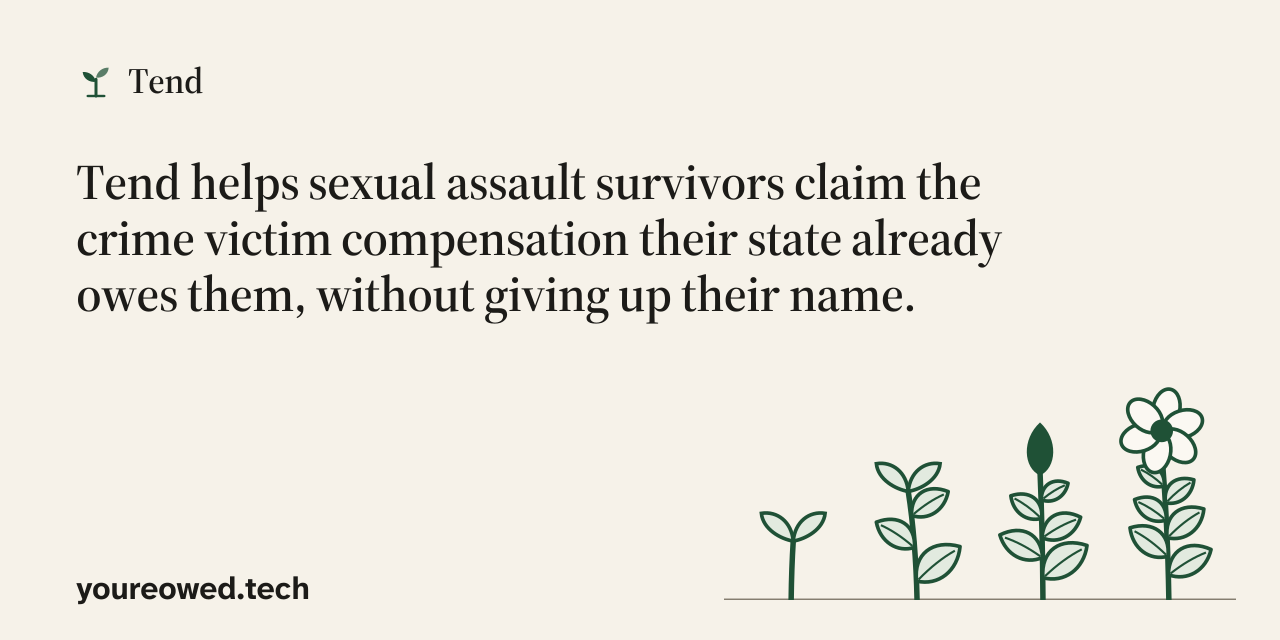
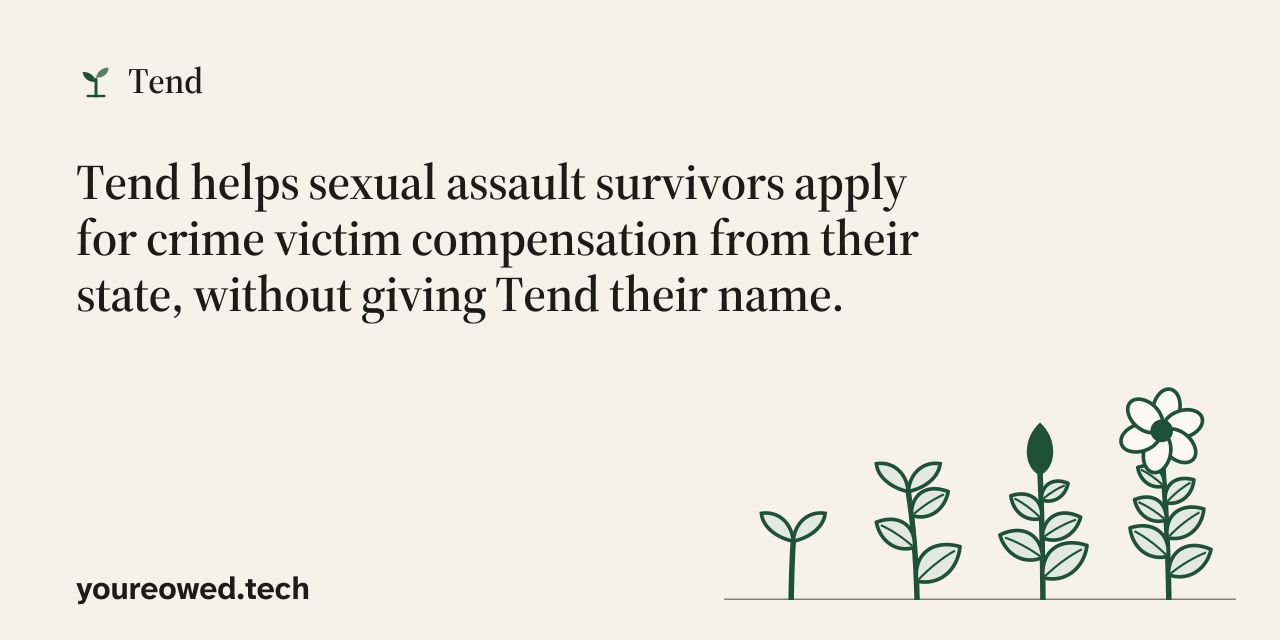
web: the home page and its link card say survivors apply, without giving Tend their name
"Claim the crime victim compensation their state already owes them" said more than
the law does: nothing is owed until the program approves a claim, every page footer
says the program decides, and the state's own form asks for the survivor's name.
What is true is that Tend never asks for it.

The home intro, How it works' lead, the home link card (og:description, /card.png)
and GitHub's social preview, regenerated with scripts/press-social.tsx, now say
"apply for crime victim compensation from their state, without giving Tend their
name". The garden, the state finder, and /law pages say "what its law says" instead
of what a state "promises". Tests keep the intro and the card in the same words.

Changed region(s): [[0.0625, 0.25, 0.7812, 0.5]]

diff --git a/web/tests/public-pages.test.tsx b/web/tests/public-pages.test.tsx
@@ -10,6 +10,7 @@ import LawPage from "@/app/law/[st]/page";
 import Home from "@/app/page";
 import StatePage, { generateMetadata } from "@/app/[st]/page";
 import LawRefs from "@/components/public/LawRefs";
+import { SITE_CARDS } from "@/components/public/og/siteCard";
 import ShareButtons from "@/components/public/ShareButtons";
 import StateFinder from "@/components/public/StateFinder";
 import type { Jurisdiction } from "@/lib/types";
@@ -108,6 +109,10 @@ describe("law page /law/MI", () => {
     expect(doc.querySelectorAll("article").length).toBe(mi.rules.length);
   });
 
+  it("calls the plain-words page what the law says, not what it promises", () => {
+    expect(page).toContain(">What Michigan&#x27;s law says, in plain words</a>");
+  });
+
   it("lists the set-aside rules with their reasons", () => {
     const doc = new DOMParser().parseFromString(page, "text/html");
     const set = doc.getElementById("set-aside")!;
@@ -163,6 +168,15 @@ describe("home page", () => {
       "/mi",
     );
     expect(screen.getAllByRole("listitem").length).toBeGreaterThan(51);
+  });
+
+  // Nothing is owed until the program says yes, and the state's own form asks for a name, so the intro and its
+  // link card say "apply" and "without giving Tend their name", in the same words.
+  it("says what Tend does in its link card's words, and promises no money", () => {
+    render(Home());
+    const intro = screen.getByRole("region", { name: "About Tend" });
+    expect(intro.textContent!.replace(/\s+/g, " ")).toContain(SITE_CARDS.home.sentence);
+    expect(document.body.textContent).not.toMatch(/already owes|promises/i);
   });
 });
 
@@ -222,12 +236,12 @@ describe("state finder", () => {
         ]}
       />,
     );
-    fireEvent.click(screen.getByRole("button", { name: "See what it promises" }));
+    fireEvent.click(screen.getByRole("button", { name: "See what its law says" }));
     expect(screen.getByRole("alert").textContent).toBe("Choose a state first.");
     expect(push).not.toHaveBeenCalled();
     fireEvent.change(screen.getByLabelText("Find your state"), { target: { value: "NY" } });
     expect(screen.queryByRole("alert")).toBeNull();
-    fireEvent.click(screen.getByRole("button", { name: "See what it promises" }));
+    fireEvent.click(screen.getByRole("button", { name: "See what its law says" }));
     expect(push).toHaveBeenCalledWith("/ny");
   });
 });

diff --git a/web/components/public/LawGarden.tsx b/web/components/public/LawGarden.tsx
@@ -31,7 +31,7 @@ export default function LawGarden({ jurisdictions }: { jurisdictions: Jurisdicti
           <h2 id="garden-title">The law garden</h2>
           <p>
             One plant for each program. A plant grows as Tend verifies more of that state&apos;s rules, and a rule
-            counts only when its quote matches the saved law word for word. Pick a state to see what it promises.
+            counts only when its quote matches the saved law word for word. Pick a state to see what its law says.
           </p>
         </div>
         <div className={styles.toggle} role="group" aria-label="Show the garden as">
@@ -116,7 +116,7 @@ export default function LawGarden({ jurisdictions }: { jurisdictions: Jurisdicti
                   {current.rules > 0 ? (
                     <div className={styles.detailLinks}>
                       <Link href={`/${current.st.toLowerCase()}`} className="btn btn-primary">
-                        What {current.st === "DC" ? "DC" : current.name} promises
+                        What {current.st === "DC" ? "DC" : current.name}&apos;s law says
                       </Link>
                       <Link href={`/law/${current.st}`}>How Tend decides</Link>
                     </div>

diff --git a/web/tests/how-it-works.test.tsx b/web/tests/how-it-works.test.tsx
@@ -9,6 +9,7 @@ import HowItWorks from "@/app/how-it-works/page";
 import { buildEngineInput } from "@/components/flow/claim";
 import { initialState, reducer, type FlowItem, type SourceRecord } from "@/components/flow/state";
 import { DOUBLE_PRESS_MS, EXIT_URL, leaveNow, navigation } from "@/components/QuickExit";
+import { SITE_CARDS } from "@/components/public/og/siteCard";
 import { LINKS } from "@/components/tour/links";
 import { fetchLaw } from "@/lib/api";
 import { toEngineInput } from "@/lib/engine";
@@ -286,5 +287,13 @@ describe("the sources", () => {
     expect(document.body.textContent).toContain("saved sources");
     expect(document.body.textContent).toContain("Source saved with sha256");
     expect(document.body.textContent).not.toMatch(/official/i);
+  });
+});
+
+// The lead says what Tend does in the home card's words: survivors apply, and Tend never asks for a name.
+describe("the lead", () => {
+  it("matches the home page's sentence and promises no money", () => {
+    expect(document.body.textContent!.replace(/\s+/g, " ")).toContain(SITE_CARDS.home.sentence);
+    expect(document.body.textContent).not.toMatch(/already owes/i);
   });
 });

diff --git a/web/tests/public-og.test.tsx b/web/tests/public-og.test.tsx
@@ -101,7 +101,7 @@ const PAGES: {
     image: "/card.png",
     title: "Tend",
     description:
-      "Tend helps sexual assault survivors claim the crime victim compensation their state already owes them, without giving up their name.",
+      "Tend helps sexual assault survivors apply for crime victim compensation from their state, without giving Tend their name.",
   },
   {
     path: "/how-it-works",
@@ -171,7 +171,7 @@ describe("link cards for the site's own pages", () => {
 
   it("describes the whole image in its alt text, address and drawing included", () => {
     expect(siteCardAlt("home")).toBe(
-      "Tend helps sexual assault survivors claim the crime victim compensation their state already owes them, without giving up their name. youreowed.tech, with a row of plant drawings from sprout to bloom.",
+      "Tend helps sexual assault survivors apply for crime victim compensation from their state, without giving Tend their name. youreowed.tech, with a row of plant drawings from sprout to bloom.",
     );
     expect(siteCardAlt("how")).toMatch(
       /^How Tend works: Each state's .* youreowed\.tech\/how-it-works, with a row of plant drawings/,

diff --git a/web/app/page.tsx b/web/app/page.tsx
@@ -20,8 +20,8 @@ export default function Home() {
       <section className={styles.visitor} aria-label="About Tend">
         <div className={styles.visitorText}>
           <p className={styles.visitorWhat}>
-            Tend helps sexual assault survivors claim the crime victim compensation their state already owes them,
-            without giving up their name.
+            Tend helps sexual assault survivors apply for crime victim compensation from their state, without giving
+            Tend their name.
           </p>
           <p className={styles.visitorProof}>
             Built by Sanat Gupta in 24 hours at MHacks 2026. 1st place, Capital One Best Use of Nessie.

diff --git a/web/app/how-it-works/page.tsx b/web/app/how-it-works/page.tsx
@@ -91,8 +91,8 @@ export default function HowItWorks() {
       <header className={styles.head}>
         <h1>How Tend works</h1>
         <p className={styles.lead}>
-          Tend helps sexual assault survivors claim the crime victim compensation their state already owes them, without
-          giving up their name.
+          Tend helps sexual assault survivors apply for crime victim compensation from their state, without giving Tend
+          their name.
         </p>
         <p>
           Every state and DC has a program that can pay back costs like medical bills, counseling, and lost pay. In

diff --git a/web/app/law/[st]/page.tsx b/web/app/law/[st]/page.tsx
@@ -82,7 +82,7 @@ export default async function LawPage({ params }: { params: Promise<{ st: string
           <SourceNote st={ref.st} sources={law.sources} path={`/law/${ref.st}`} />
           <ul className={styles.links} aria-label="Related pages and data">
             <li>
-              <Link href={`/${lower}`}>What {law.name} promises, in plain words</Link>
+              <Link href={`/${lower}`}>What {ref.st === "DC" ? "DC" : law.name}&apos;s law says, in plain words</Link>
             </li>
             <li>
               <a href={`/data/law/${ref.st}.json`}>Verified rules (JSON)</a>

diff --git a/web/components/public/og/siteCard.tsx b/web/components/public/og/siteCard.tsx
@@ -18,7 +18,7 @@ export const SITE_CARDS = {
   home: {
     path: "/",
     sentence:
-      "Tend helps sexual assault survivors claim the crime victim compensation their state already owes them, without giving up their name.",
+      "Tend helps sexual assault survivors apply for crime victim compensation from their state, without giving Tend their name.",
   },
   how: {
     path: "/how-it-works",

diff --git a/web/components/public/StateFinder.tsx b/web/components/public/StateFinder.tsx
@@ -44,7 +44,7 @@ export default function StateFinder({ states }: { states: { st: string; name: st
           ))}
         </select>
         <button type="submit" className="btn btn-primary">
-          See what it promises
+          See what its law says
         </button>
       </div>
       {error ? (

diff --git a/web/e2e/test_tour.py b/web/e2e/test_tour.py
@@ -33,7 +33,7 @@ def test_tour_from_home_through_track(stack: Stack, browser: Browser) -> None:  
         with step(TEST, "Home: visitor intro"):
             page.goto("/")
             intro = page.get_by_role("region", name="About Tend")
-            expect(intro).to_contain_text("without giving up their name.")
+            expect(intro).to_contain_text("without giving Tend their name.")
             expect(intro).to_contain_text("1st place, Capital One Best Use of Nessie.")
             expect(intro).to_contain_text("fictional")
             expect(intro.get_by_role("link", name="How it works")).to_have_attribute("href", "/how-it-works")
